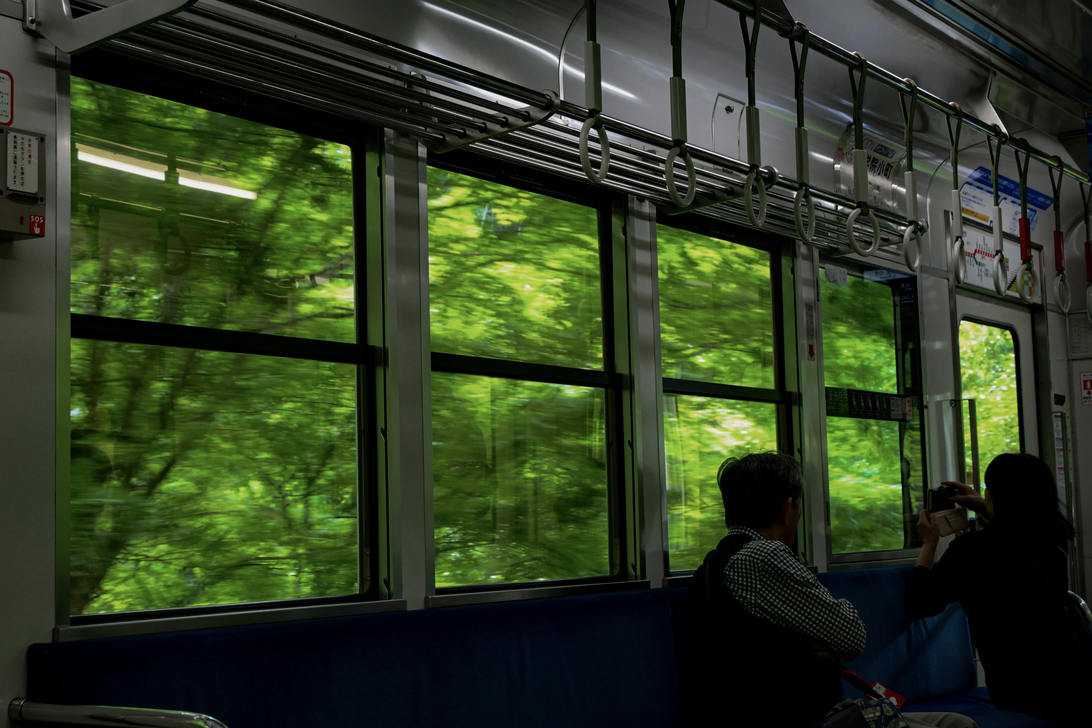
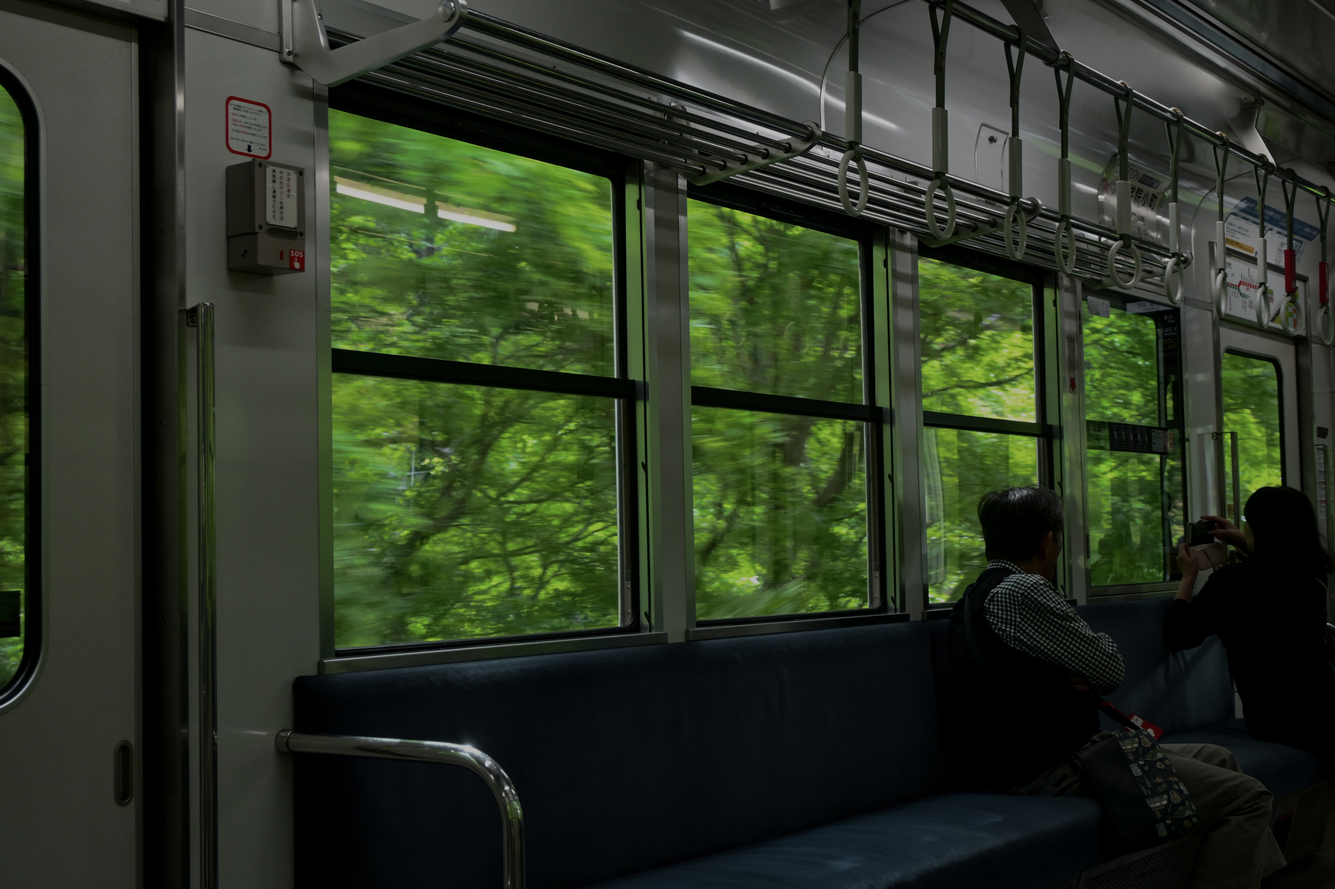
Refine editorial copy and mobile layouts

diff --git a/index.html b/index.html
@@ -59,13 +59,13 @@
 
                     <div class="editorial-thumbnails">
                         <img src="./image/永观堂4.jpg" class="ed-thumb active"
-                            onclick="changeEditorialContent(this, './image/永观堂4.jpg', 'PLATE I — STILL LIFE WITH LIGHT & SHADOW', '01', '记忆会随风飘走吗？<br>我要如何留住这一刻呢，我不再回来的青春<br>我不知道自己是否还会再回来，也许永远不会<br>世界太大了，大到只够用一次快门来短暂挽留，就像旅行中遇到的人，匆匆相遇后便相忘于江湖<br>沿途的邂逅入了画，可是我空了一块的心又能和谁诉说')">
+                            onclick="changeEditorialContent(this, './image/永观堂4.jpg', 'PLATE I — STILL LIFE WITH LIGHT & SHADOW', '01', '/一期一会/<br>记忆会随风飘走吗？<br>我要如何留住这一刻呢，我不再回来的青春<br>我不知道自己是否还会再回来，也许永远不会<br>世界太大了，大到只够用一次快门来短暂挽留，就像旅行中遇到的人，匆匆相遇后便相忘于江湖<br>沿途的邂逅入了画，可是我空了一块的心又能和谁诉说')">
 
                         <img src="./image/DSC_0159.JPG" class="ed-thumb"
-                            onclick="changeEditorialContent(this, './image/DSC_0159.JPG', 'PLATE II — AT THE CORNER', '02', '你挽着我穿梭在钢铁森林，走过旺角光怪陆离的街头，在叮叮车里看车水马龙掠过，我们在文武庙郑重落笔，期盼命运的垂怜...<br>或许害怕的从来不是离别，而是遗忘。<br>亲爱的朋友，当你再次来到香港，你会想起我吗')">
+                            onclick="changeEditorialContent(this, './image/DSC_0159.JPG', 'PLATE II — AT THE CORNER', '02', '/后会有期/<br>告别的时候，窗外忽然落起了雨，你张开双臂，轻轻抱住了我。你可知，我的心在下雨<br>原来真的有人会在生命中出现，像一场漫长的雨季，在心里绵延，最后落地飘散，离开后不留下一丝痕迹。<br>可你分明来过。<br>当意识到我们或许再也无法联系，我才意识到，我们真的要分别了。<br>香港很小，香港也很大。我没办法骗自己，我们还会见面。可我也没法说服自己，从此我们真的不会再见。<br>你又一次抱住了我。<br>我把头埋进你的毛衣。<br>或许，我害怕的从来不是离别，而是遗忘。<br>记忆会褪色，我要如何对抗时间的洪流，我又要怎样留住和你有关的片段，在岁月把一切冲淡之前，记住你的容颜。<br>在信的结尾，我没有和你说不要忘了我，我也没有说请往前走，忘了我。<br>当我们在香港的转角重逢，请我们一定要认出彼此。')">
 
                         <img src="./image/DSC_8427.jpg" class="ed-thumb"
-                            onclick="changeEditorialContent(this, './image/DSC_8427.jpg', 'PLATE III — KYOTO SANZEN-IN', '03', '如果这是一场梦，为什么我不会醒来呢<br>列车驶向未知的远方，我却没有做好出发的准备<br>一路上，相逢，交心，离别，释怀，珍藏', '— KYOTO SERIES')">
+                            onclick="changeEditorialContent(this, './image/DSC_8427.jpg', 'PLATE III — KYOTO SANZEN-IN', '03', '/无问西东/<br>如果这是一场梦，为什么我不会醒来呢<br><em>19</em>岁的某一天，我偷偷坐上前往日本的飞机。<br>一个人坐在机场，看着航线一条一条变换，觉得世界很远，又好像离我很近。<br>叡山电车穿过京都的树林，我只是坐着，聆听内心的声音<br>我不知道下一站将开往哪里，也不知道未来会驶向何方。<br>世界很大，大到没有人知道此时此刻的我在哪里。我混在陌生的人群里，像一个过客。<br>偶尔迷路，就悄悄跟在别人身后。有一次，那个人恰好是个很好看的男生，于是连迷路都突然变得有趣起来。<br>甚至已经忘了那天究竟走过哪些街道，只记得阳光落在他的肩上，而我莫名其妙地跟着陌生人走了很久。<br>就这样漫无目的地走，路过京都，路过夏天，路过人间，也路过再也不会重来的瞬间，<br>蜉蝣天地间。<br>一生中还有多少宁静和自由的时刻呢<br>至少这一小段路，这一窗绿色，这个19岁的下午，是属于我的。<br>窗外的树还在不断后退。<br>我忽然分不清，究竟是列车载着我穿过树林，还是十九岁的我，正在悄悄穿过一场梦。<br>至于终点，那天的我并不着急知道', '— KYOTO SERIES')">
 
                         <img src="./image/IMG_2042.jpg" class="ed-thumb"
                             onclick="changeEditorialContent(this, './image/IMG_2042.jpg', 'PLATE IV — SINGAPORE', '04', '这是第四张照片的叙事。在这里写下你拍摄时的光影斑驳，让文字与摄影作品在杂志排版中完美交融。', '— NIKON Z502')">
@@ -76,7 +76,7 @@
                     <div class="quote-block reveal-up">
                         <span class="quote-number" id="editorial-num">01</span>
                         <p class="quote" id="editorial-quote">
-                            记忆会随风飘走吗？<br>我要如何留住这一刻呢，我不再回来的青春<br>我不知道自己是否还会再回来，也许永远不会<br>世界太大了，大到只够用一次快门来短暂挽留，就像旅行中遇到的人，匆匆相遇后便相忘于江湖<br>相机定格了瞬间，可是我空了一块的心又能和谁诉说
+                            /一期一会/<br>记忆会随风飘走吗？<br>我要如何留住这一刻呢，我不再回来的青春<br>我不知道自己是否还会再回来，也许永远不会<br>世界太大了，大到只够用一次快门来短暂挽留，就像旅行中遇到的人，匆匆相遇后便相忘于江湖<br>相机定格了瞬间，可是我空了一块的心又能和谁诉说
                         </p>
                     </div>
                 </div>

diff --git a/style.css b/style.css
@@ -854,6 +854,11 @@ editorial-img {
     color: #555;
 }
 
+.quote.third-quote {
+    font-size: 0.85rem;
+    line-height: 1.6;
+}
+
 
 
 
@@ -1241,5 +1246,155 @@ editorial-img {
         writing-mode: horizontal-tb !important;
         text-align: justify !important;
         letter-spacing: 1px !important;
+    }
+}
+
+@media screen and (max-width: 768px) {
+    .hero {
+        min-height: 100svh;
+        height: 100svh;
+        padding: 24px 20px;
+        justify-content: center;
+        align-items: center;
+    }
+
+    #hero-content {
+        width: 100%;
+        max-width: 420px;
+        margin: 0;
+        padding: 0;
+        align-items: center;
+        text-align: center;
+    }
+
+    #hero-content .author-name {
+        width: 100%;
+        margin-bottom: 12px;
+        text-align: center;
+        font-size: 0.78rem;
+        letter-spacing: 3px;
+    }
+
+    #hero-content h1 {
+        width: 100%;
+        margin-bottom: 18px;
+        font-size: clamp(3.2rem, 15vw, 4.5rem) !important;
+        line-height: 1.05;
+        text-align: center;
+    }
+
+    #hero-content p {
+        width: 100%;
+        max-width: 350px;
+        padding: 0 !important;
+        margin-bottom: 5px;
+        text-align: center;
+        font-size: 0.88rem;
+        line-height: 1.7;
+    }
+
+    #hero-content .menu-options {
+        width: 100%;
+        margin-top: 24px;
+        align-items: center;
+    }
+
+    #hero-content .menu-options button {
+        min-width: 190px;
+        padding: 11px 34px;
+        font-size: 1rem;
+    }
+
+    #detail-section {
+        min-height: 100svh;
+        height: auto !important;
+        flex-direction: column !important;
+        padding: calc(24px + env(safe-area-inset-top)) 20px calc(110px + env(safe-area-inset-bottom)) !important;
+        overflow-y: auto !important;
+        justify-content: flex-start !important;
+        align-items: center !important;
+    }
+
+    #detail-section .main-photo-container {
+        order: 1;
+        flex: none !important;
+        width: 100%;
+        height: auto !important;
+        min-height: 0;
+        padding: 0;
+        margin: 0;
+    }
+
+    #detail-section .main-photo-container img {
+        width: auto !important;
+        max-width: 100% !important;
+        height: auto !important;
+        max-height: 56svh !important;
+        object-fit: contain !important;
+    }
+
+    #detail-section .content {
+        order: 2;
+        display: flex;
+        flex: none !important;
+        width: 100%;
+        max-width: 420px !important;
+        margin: 22px 0 0 !important;
+        padding: 0 !important;
+        align-items: center !important;
+        text-align: center !important;
+    }
+
+    #detail-section .content h1 {
+        order: 1;
+        width: 100%;
+        margin: 0 0 12px !important;
+        font-size: clamp(1.8rem, 8vw, 2.5rem) !important;
+        line-height: 1.2 !important;
+        text-align: center;
+    }
+
+    #detail-section .content .author-name {
+        order: 2;
+        width: 100%;
+        margin: 0 0 8px !important;
+        font-size: 0.78rem !important;
+        letter-spacing: 3px !important;
+        text-align: center;
+    }
+
+    #detail-section .content p {
+        order: 3;
+        width: 100%;
+        margin: 0 !important;
+        padding: 0 !important;
+        font-size: 0.95rem !important;
+        line-height: 1.6 !important;
+        text-align: center;
+    }
+
+    #detail-section .content button {
+        order: 4;
+        margin: 22px 0 0 !important;
+        padding: 9px 30px !important;
+        font-size: 0.95rem !important;
+    }
+}
+
+@media screen and (max-width: 900px) {
+    .hero:not(#detail-section) {
+        justify-content: center;
+        align-items: center;
+    }
+
+    #hero-content {
+        margin: 0;
+        align-items: center;
+        text-align: center;
+    }
+
+    #hero-content .menu-options {
+        width: 100%;
+        align-items: center;
     }
 }

diff --git a/script.js b/script.js
@@ -231,7 +231,9 @@ function changeEditorialContent(element, imgSrc, caption, num, quote, author) {
 
     document.getElementById('editorial-num').innerText = num;
 
-    document.getElementById('editorial-quote').innerHTML = quote;
+    const quoteElement = document.getElementById('editorial-quote');
+    quoteElement.classList.toggle('third-quote', num === '03');
+    quoteElement.innerHTML = quote;
 
 
     const thumbs = document.querySelectorAll('.ed-thumb');
